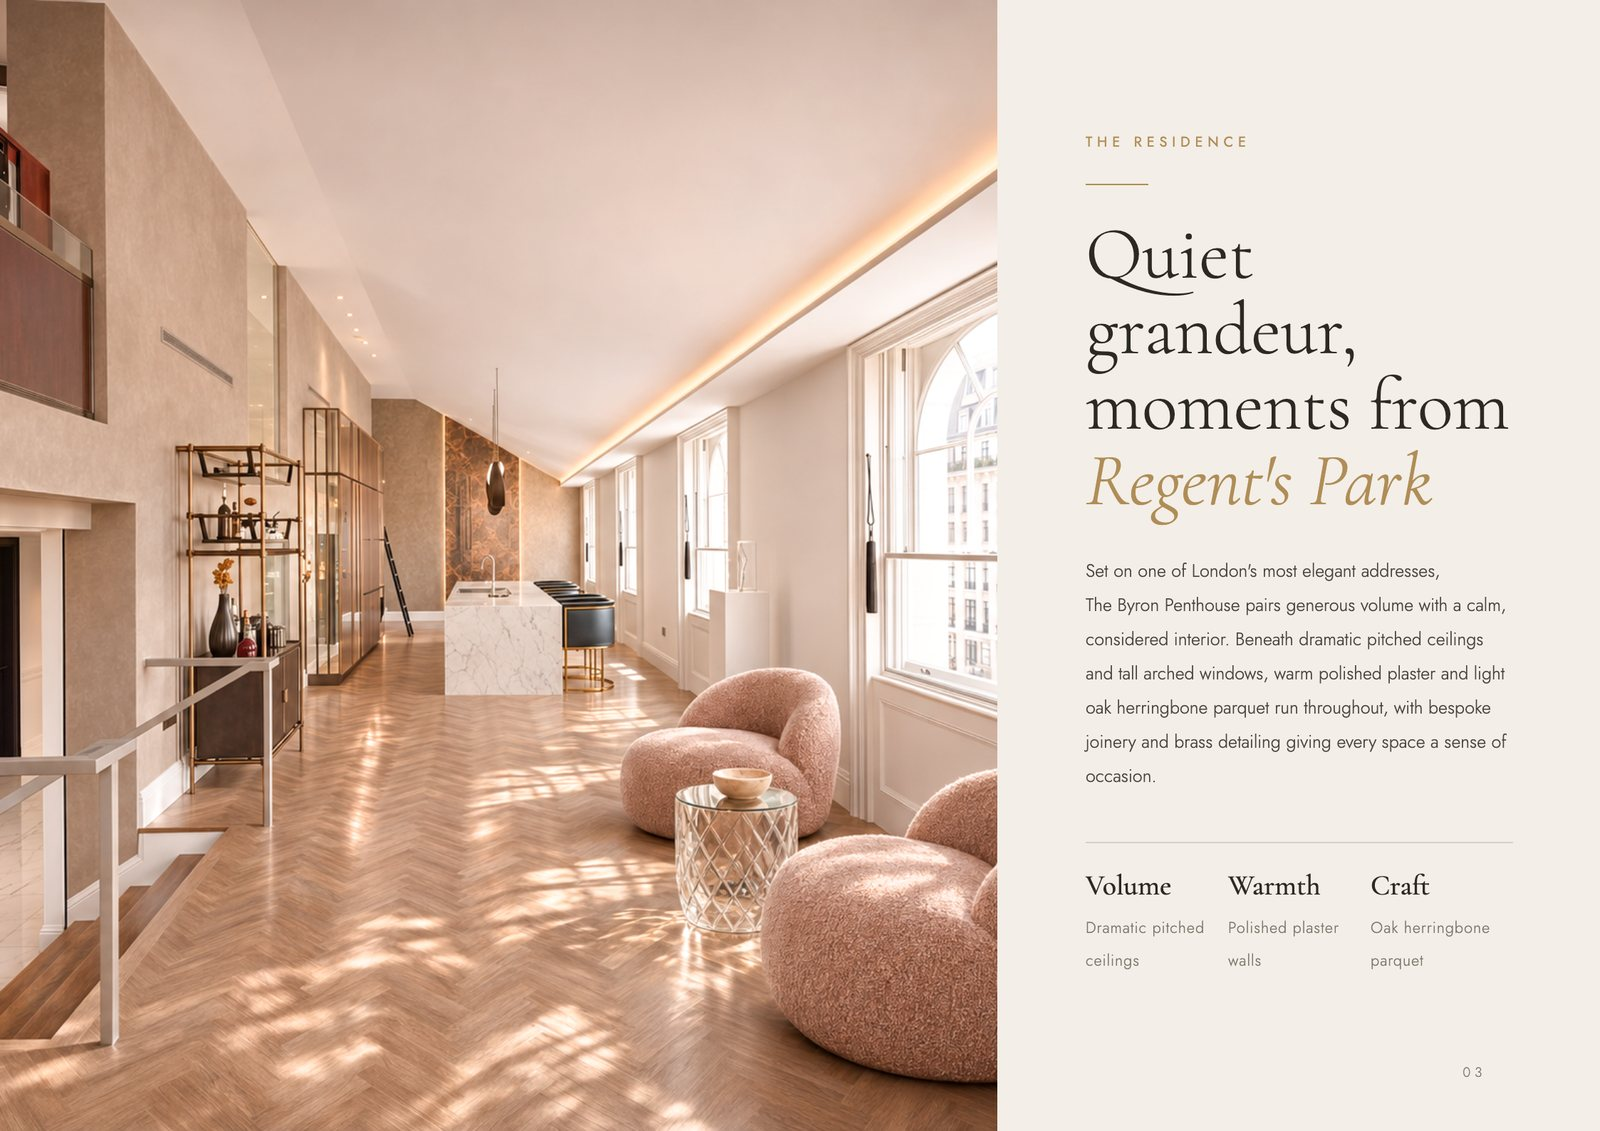
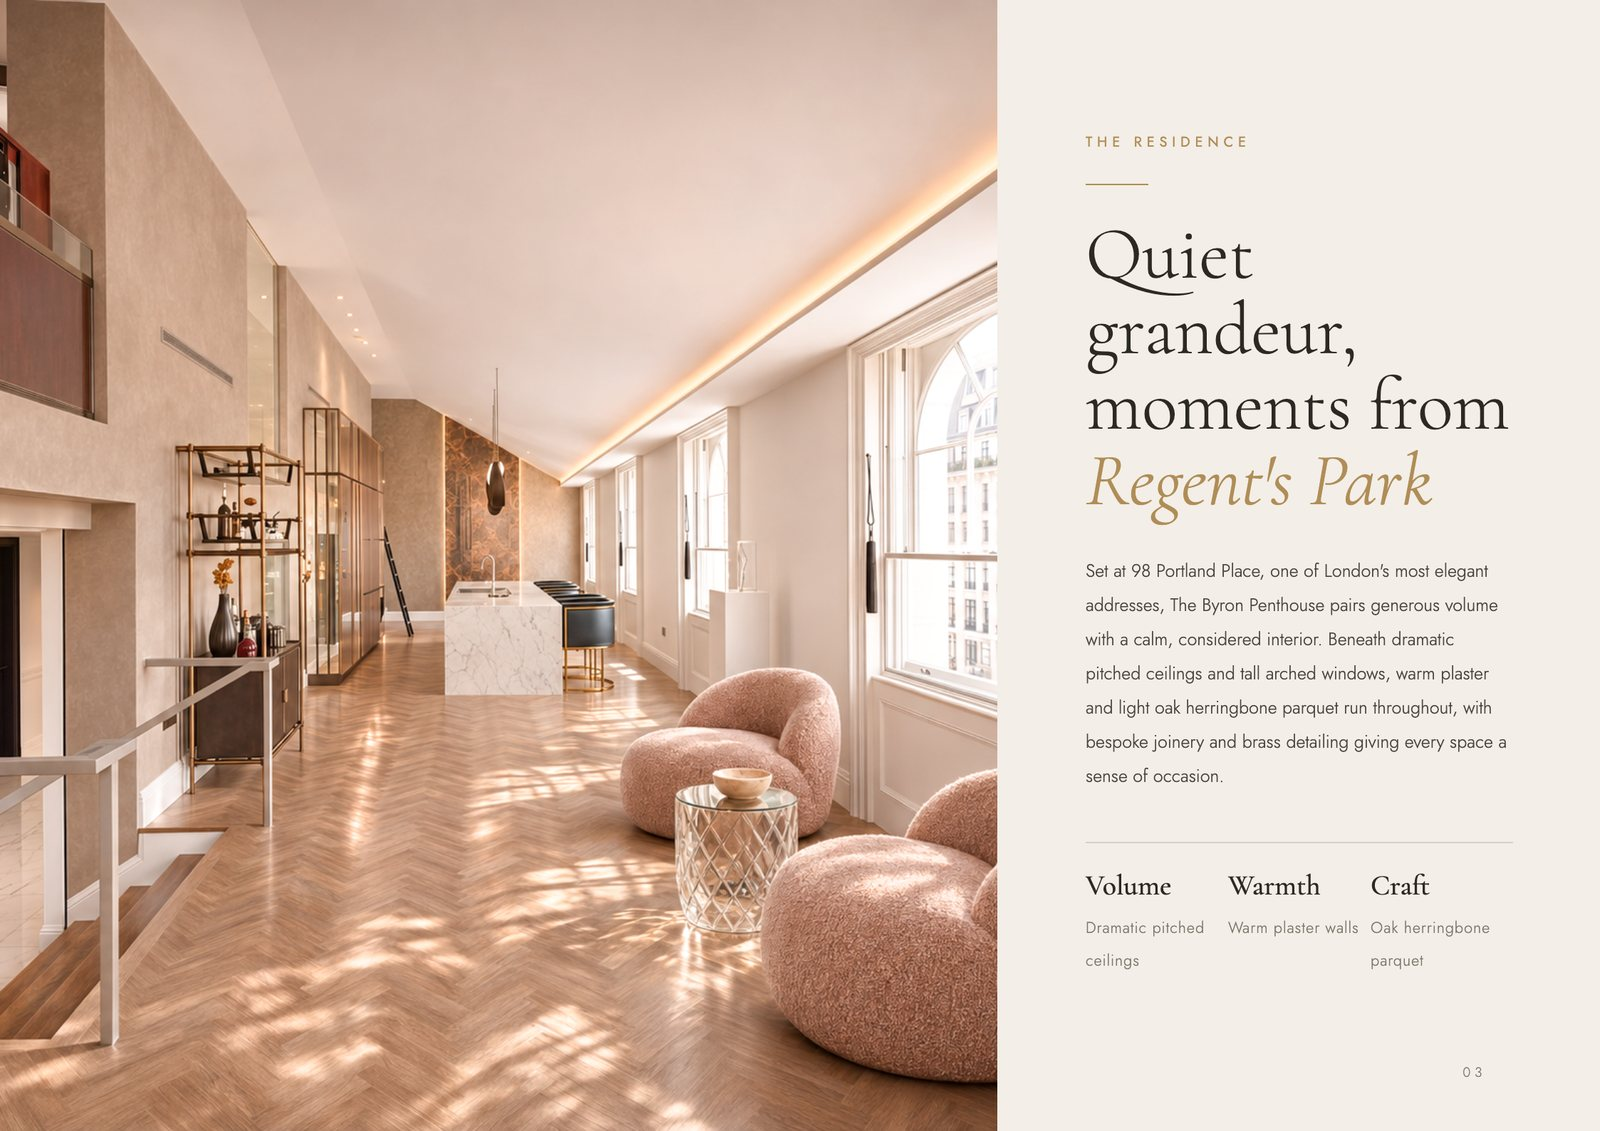
Byron Penthouse: plaster wording, cover legibility, brochure copy
- "Polished plaster" becomes "warm plaster" on the project page (alt
  text, body, palette) and brochure page 3; drop "Ink-wash wallcovering"
  from the palette.
- Cover: soft feathered darkening and a firmer text shadow behind the
  title so it reads against the sky and branches.
- Brochure copy: page 3 names 98 Portland Place; page 4 mentions views
  towards Regent's Park; page 7 opens to a study; new text for the
  principal bathroom (9) and study / guest en suite (10).
- Remove the full-bleed club lounge back page; 13 pages.

Changed region(s): [[0.6875, 0.4951, 0.9375, 0.7118], [0.7812, 0.8046, 0.8438, 0.8355]]

diff --git a/brochure-src/brochure.html b/brochure-src/brochure.html
@@ -35,7 +35,8 @@ p{font-size:12.6px;line-height:1.9;color:#4a443d}
 <div class="page" id="p1">
  <div class="ph" style="inset:0;background-image:url(renders/exterior-park-crescent.jpg);background-size:cover;background-position:48% 50%"></div>
  <div class="frame"></div>
- <div id="cover-title" style="position:absolute;left:0;right:0;top:56px;text-align:center;color:#fff;text-shadow:0 0 14px rgba(38,35,32,.55),0 0 3px rgba(38,35,32,.45)">
+ <div style="position:absolute;left:0;right:0;top:0;height:270px;background:radial-gradient(ellipse 46% 58% at 50% 40%,rgba(24,21,18,.5) 0%,rgba(24,21,18,.32) 45%,rgba(24,21,18,0) 100%)"></div>
+ <div id="cover-title" style="position:absolute;left:0;right:0;top:56px;text-align:center;color:#fff;text-shadow:0 1px 3px rgba(20,18,16,.6),0 0 16px rgba(24,21,18,.6)">
   <h1 class="disp" style="font-size:60px">The Byron Penthouse</h1>
   <div style="margin-top:16px;font-size:12.5px;letter-spacing:.22em;line-height:1.9;text-transform:uppercase;font-weight:400">Stunning, dual aspect 3 bedroom penthouse overlooking Regent's Park</div>
  </div>
@@ -53,11 +54,11 @@ p{font-size:12.6px;line-height:1.9;color:#4a443d}
   <div class="eb">The Residence</div><div class="rule"></div>
   <h2 class="disp" style="font-size:52px">Quiet grandeur, moments from <i>Regent's Park</i></h2>
   <div style="height:26px"></div>
-  <p>Set on one of London's most elegant addresses, The&nbsp;Byron&nbsp;Penthouse pairs generous volume with a calm, considered interior. Beneath dramatic pitched ceilings and tall arched windows, warm polished plaster and light oak herringbone parquet run throughout, with bespoke joinery and brass detailing giving every space a sense of occasion.</p>
+  <p>Set at 98 Portland Place, one of London's most elegant addresses, The&nbsp;Byron&nbsp;Penthouse pairs generous volume with a calm, considered interior. Beneath dramatic pitched ceilings and tall arched windows, warm plaster and light oak herringbone parquet run throughout, with bespoke joinery and brass detailing giving every space a sense of occasion.</p>
  </div>
  <div class="feat" style="position:absolute;left:762px;right:61px;bottom:110px">
   <div><b>Volume</b><span>Dramatic pitched ceilings</span></div>
-  <div><b>Warmth</b><span>Polished plaster walls</span></div>
+  <div><b>Warmth</b><span>Warm plaster walls</span></div>
   <div><b>Craft</b><span>Oak herringbone parquet</span></div>
  </div>
  <div class="pn" style="right:80px">03</div>
@@ -68,7 +69,7 @@ p{font-size:12.6px;line-height:1.9;color:#4a443d}
  <div class="ph" style="inset:0;background-image:url(renders/03-reception.png);background-position:50% 60%"></div>
  <div class="box" style="right:56px;bottom:56px">
   <div class="eb">Reception</div><h2 class="disp">Made for <i>gathering</i></h2>
-  <p>A generous reception room arranged around a sculptural curved sofa, with statement art and warm, layered textures beneath the soaring ceiling.</p>
+  <p>A generous reception room arranged around a sculptural curved sofa, with statement art, warm, layered textures and views towards Regent's Park.</p>
  </div>
  <div class="pn" style="left:56px;color:#fff">04</div>
 </div>
@@ -102,7 +103,7 @@ p{font-size:12.6px;line-height:1.9;color:#4a443d}
  <div class="ph" style="inset:0;background-image:url(renders/20-principal-bedroom.png);background-size:auto 860px;background-position:0% 55%"></div>
  <div class="box" style="left:56px;bottom:56px">
   <div class="eb">Principal Suite</div><h2 class="disp">The principal <i>bedroom</i></h2>
-  <p>A serene principal bedroom with an upholstered headboard wall and bespoke storage, opening through to its own sitting room and bathroom.</p>
+  <p>A serene principal bedroom with an upholstered headboard wall and bespoke storage, opening through to its own study and bathroom.</p>
  </div>
  <div class="pn" style="right:56px;color:#fff">07</div>
 </div>
@@ -123,7 +124,7 @@ p{font-size:12.6px;line-height:1.9;color:#4a443d}
  <div style="position:absolute;left:72px;top:110px;width:350px">
   <div class="eb">Principal Bathroom</div><div class="rule"></div>
   <h2 class="disp" style="font-size:52px">Calm, <i>spa-like</i> luxury</h2><div style="height:22px"></div>
-  <p>Smoky taupe Venetian plaster sits against white marble, with a generous walk-in shower and a freestanding bath. A bathroom designed for slow mornings.</p>
+  <p>A walk-in shower in white marble and a deep freestanding bath, set against smoky taupe Venetian plaster and a taupe oak vanity. Warm, quiet and made for unhurried mornings.</p>
  </div>
  <div class="pn" style="left:72px">09</div>
 </div>
@@ -134,11 +135,11 @@ p{font-size:12.6px;line-height:1.9;color:#4a443d}
  <div class="ph" style="left:562px;top:0;width:561px;height:600px;background-image:url(renders/14-guest-ensuite.png);background-size:auto 600px;background-position:62% 50%"></div>
  <div style="position:absolute;left:72px;top:636px;width:440px">
   <div class="eb">Study</div>
-  <p style="margin-top:10px">A quiet study landing, its walls traced with flowing gilded lines beneath a striking figurative artwork.</p>
+  <p style="margin-top:10px">A quiet place to work, with a black lacquered desk and velvet chair beneath a bold figurative artwork, the walls traced in fine gilded lines.</p>
  </div>
  <div style="position:absolute;left:634px;top:636px;width:420px">
   <div class="eb">Guest En Suite</div>
-  <p style="margin-top:10px">Each bedroom has its own en suite, including a walk-in shower in warm, large-format marble.</p>
+  <p style="margin-top:10px">Every bedroom has its own en suite. The guest shower room is lined in warm, large-format marble, with a frameless glass screen.</p>
  </div>
  <div class="pn" style="right:72px;bottom:24px">10</div>
 </div>
@@ -175,12 +176,6 @@ p{font-size:12.6px;line-height:1.9;color:#4a443d}
   <div class="eb">The Park Crescent Club</div><div class="rule"></div>
  </div>
  <div class="pn" style="right:56px;bottom:24px">13</div>
-</div>
-
-<!-- 14 BACK: CLUB LOUNGE -->
-<div class="page" id="p14">
- <div class="ph" style="inset:0;background-image:url(renders/club-lounge.jpg);background-position:50% 50%"></div>
- <div class="eb" style="position:absolute;left:56px;bottom:48px;color:#fff;text-shadow:0 0 12px rgba(38,35,32,.45)">The Park Crescent Club</div>
 </div>
 
 </body></html>

diff --git a/public/98pp/index.html b/public/98pp/index.html
@@ -38,7 +38,6 @@ body{position:relative;height:100vh;min-height:620px;overflow:hidden}
 <div class="page"><img src="pages/p11.jpg" alt="The outlook"></div>
 <div class="page"><img src="pages/p12.jpg" alt="The Park Crescent Club"></div>
 <div class="page"><img src="pages/p13.jpg" alt="The Park Crescent Club: games room and gym"></div>
-<div class="page"><img src="pages/p14.jpg" alt="The Park Crescent Club lounge"></div>
 </div></template></div>
 <button class="nav" id="next" aria-label="Next page">›</button>
 <div class="count" id="count"></div>

diff --git a/src/content/projects/the_byron_penthouse.md b/src/content/projects/the_byron_penthouse.md
@@ -13,9 +13,9 @@ metaDescription: "A refurbishment scheme and sales visualisations for an apartme
 statusLabel: Concept
 showInProjects: true
 cardImage: /assets/images/projects/apartment_5_98_portland_place/apartment_5_98_portland_place_01_living_dining_final.webp
-cardAlt: Open-plan living and dining area at The Byron Penthouse, 98 Portland Place, with warm polished plaster walls, light oak herringbone parquet, a round travertine dining table and a gold chandelier
+cardAlt: Open-plan living and dining area at The Byron Penthouse, 98 Portland Place, with warm plaster walls, light oak herringbone parquet, a round travertine dining table and a gold chandelier
 heroImage: /assets/images/projects/apartment_5_98_portland_place/apartment_5_98_portland_place_01_living_dining_final.webp
-heroAlt: Open-plan living and dining area at The Byron Penthouse, 98 Portland Place, with warm polished plaster walls, light oak herringbone parquet, a round travertine dining table and a gold chandelier
+heroAlt: Open-plan living and dining area at The Byron Penthouse, 98 Portland Place, with warm plaster walls, light oak herringbone parquet, a round travertine dining table and a gold chandelier
 heroImageType: Design visualisation
 projectTags:
   - Interior design scheme
@@ -24,7 +24,7 @@ projectTags:
 articleHeading: Overview
 lead: "The Byron Penthouse sits on Portland Place, moments from Regent's Park. Ahead of the apartment's return to the sales market, Curated Design developed a refurbishment scheme and a set of visualisations showing the home as it will be finished."
 body: |
-  Throughout the apartment, the grey wallpaper gives way to warm polished plaster and light oak herringbone parquet. The reception is arranged around a curved sofa beneath the pitched ceiling, and the dining area centres on a travertine table beneath the chandelier. In the kitchen, new hand-patinated bronze doors on the tall units keep the original mirrored glass, behind a waterfall marble island.
+  Throughout the apartment, the grey wallpaper gives way to warm plaster and light oak herringbone parquet. The reception is arranged around a curved sofa beneath the pitched ceiling, and the dining area centres on a travertine table beneath the chandelier. In the kitchen, new hand-patinated bronze doors on the tall units keep the original mirrored glass, behind a waterfall marble island.
 
   The principal bedroom gains an upholstered headboard wall and a new sitting room, created by enclosing the bedroom terrace beneath a skylight. In the principal bathroom, smoky taupe Venetian plaster and a taupe oak vanity replace the original light oak panelling, alongside white marble, a walk-in shower and a freestanding bath. The study landing's walls are traced with flowing gilded lines beneath a striking figurative artwork, and the guest en suite gains a walk-in shower in warm, large-format marble.
 
@@ -35,11 +35,10 @@ previewLink:
 extraSections:
   - heading: Material palette
     text: |
-      - Warm polished plaster
+      - Warm plaster
       - Oak herringbone parquet
       - Patinated bronze
       - Smoky taupe Venetian plaster
-      - Ink-wash wallcovering
       - Travertine
 facts:
   - label: Status

diff --git a/brochure-src/README.md b/brochure-src/README.md
@@ -23,10 +23,10 @@ Output:
 ## Editing tips
 - Open `brochure.html` in a browser to preview all pages stacked.
 - Image crops: adjust `background-position` (and `background-size` where set) on the `.ph` element.
-- Add or remove a page by adding or deleting a `<div class="page" id="...">` block; the build picks up any number of pages. Keep an even total. The viewer shows one full page per turn on every screen size.
+- Add or remove a page by adding or deleting a `<div class="page" id="...">` block; the build picks up any number of pages. The viewer shows one full page per turn on every screen size, so any page count works.
 - Palette: charcoal `#262320`, stone `#f3eee7`, bronze `#b08d57`.
 
 ## Pages
-1 Cover (exterior) · 2 Living & dining (full-bleed) · 3 The residence · 4 Reception · 5 Living & dining · 6 Kitchen · 7 Principal bedroom · 8 Principal suite retreat · 9 Principal bathroom · 10 Study & guest en suite · 11 The outlook · 12 The Park Crescent Club · 13 Club: games room & gym · 14 Club lounge (back)
+1 Cover (exterior) · 2 Living & dining (full-bleed) · 3 The residence · 4 Reception · 5 Living & dining · 6 Kitchen · 7 Principal bedroom · 8 Principal suite retreat · 9 Principal bathroom · 10 Study & guest en suite · 11 The outlook · 12 The Park Crescent Club · 13 Club: games room & gym
 
 Note: `renders/07-kitchen-marquetry.png` is the alternative straw-marquetry kitchen option. To use it, change `07-kitchen-bronze.png` to `07-kitchen-marquetry.png` on page 5 and update the kitchen text.
